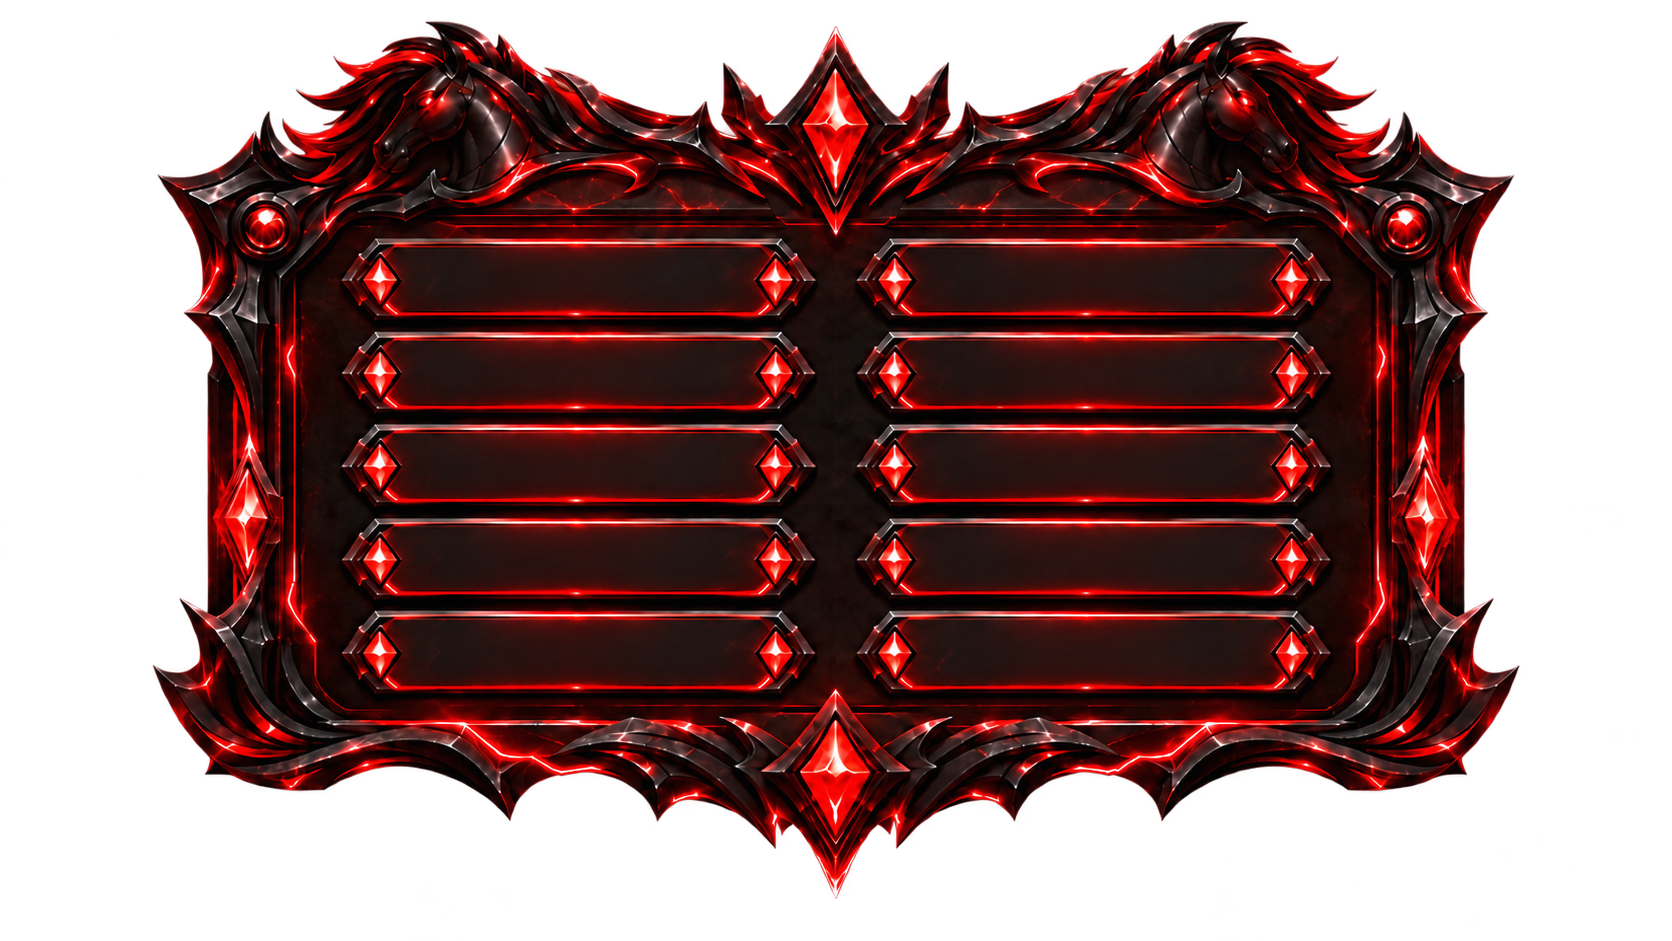
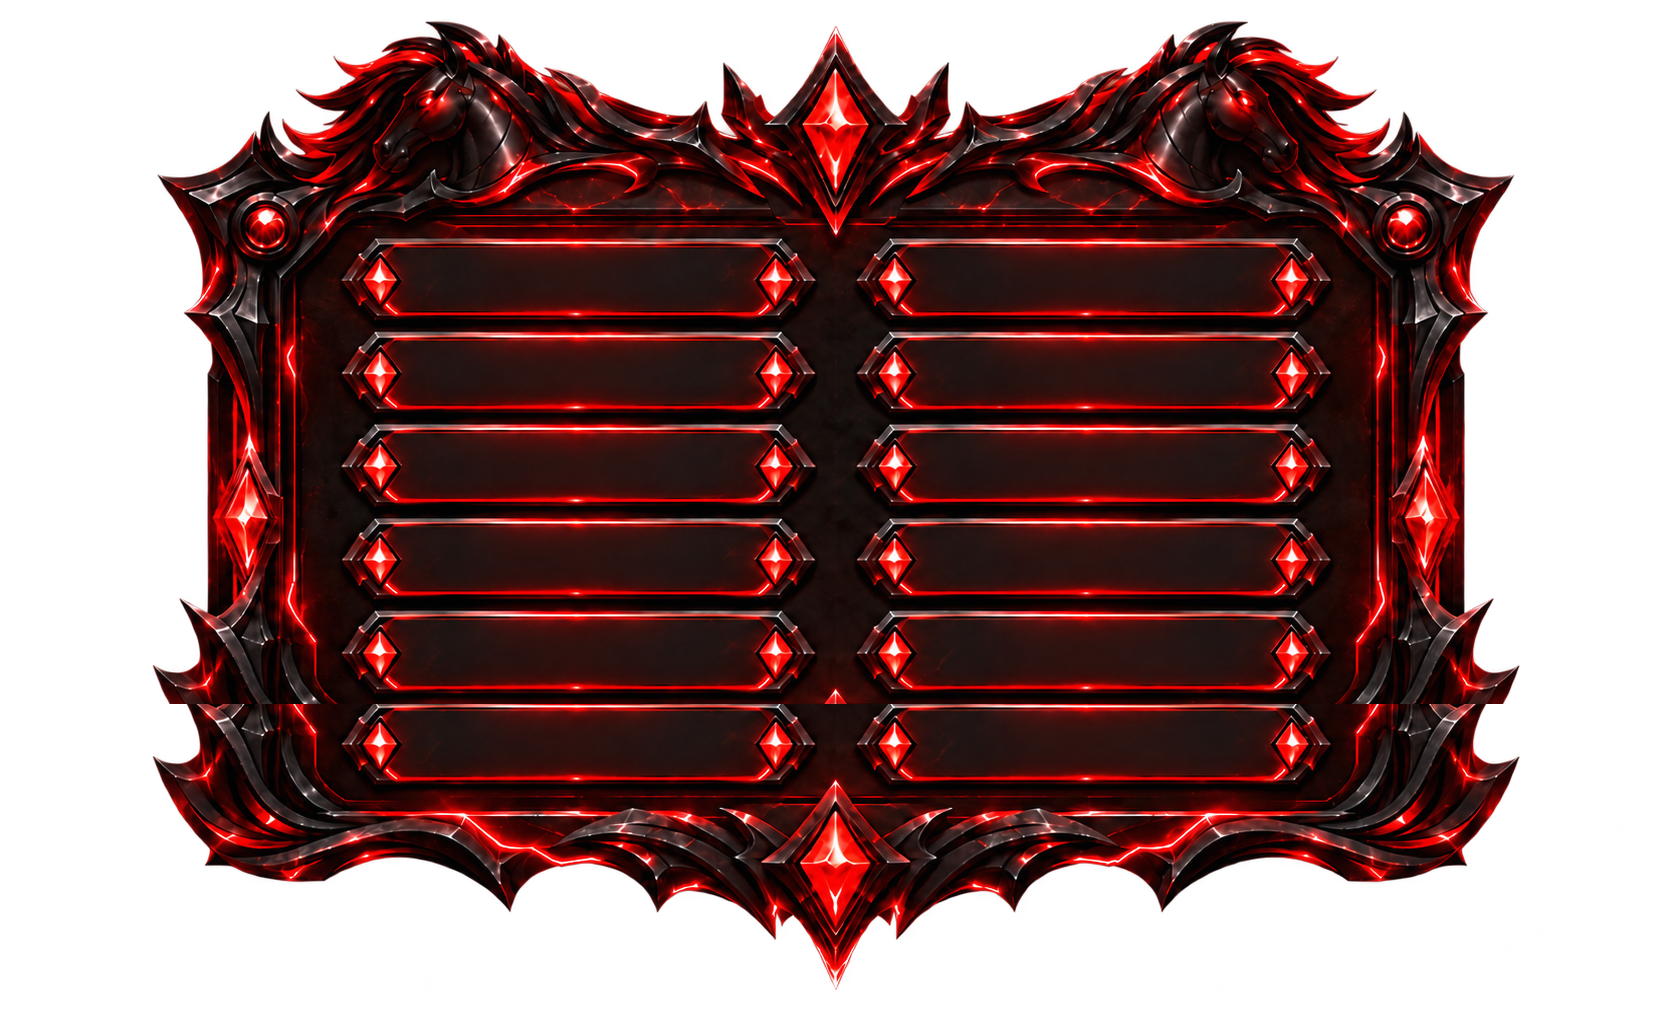
Integrate bath control into Colt panel

diff --git a/work/verify-launchpad-colt-ui.js b/work/verify-launchpad-colt-ui.js
@@ -240,18 +240,21 @@ async function run() {
     const controlsBounds = await controlsPanel.boundingBox();
     assert.match(await controlsPanel.evaluate(element => getComputedStyle(element).backgroundImage), /launchpad-colt-controls-panel\.png/);
     assert.equal(await controlsPanel.locator("button").count(), 12, "The redesigned panel lost a Colt control.");
-    assert(Math.abs((controlsBounds.width / controlsBounds.height) - (1672 / 941)) < 0.08, "The Colt controls artwork is distorted.");
+    assert(Math.abs((controlsBounds.width / controlsBounds.height) - (1672 / 1032)) < 0.08, "The Colt controls artwork is distorted.");
     assert(controlsBounds.x >= 7 && controlsBounds.y >= 7 && controlsBounds.x + controlsBounds.width <= 1433 && controlsBounds.y + controlsBounds.height <= 893, "The Colt controls panel is not contained in the viewport.");
-    const slotButtons = controlsPanel.locator('button:not([data-colt-control="minimize"]):not([data-colt-control="bath"])');
+    const slotButtons = controlsPanel.locator('button:not([data-colt-control="minimize"])');
     const firstSlotBounds = await slotButtons.first().boundingBox();
     const lastSlotBounds = await slotButtons.last().boundingBox();
     const firstSlotCenter = firstSlotBounds.y + firstSlotBounds.height / 2;
     const lastSlotCenter = lastSlotBounds.y + lastSlotBounds.height / 2;
     assert(firstSlotCenter > controlsBounds.y + controlsBounds.height * .27 && firstSlotCenter < controlsBounds.y + controlsBounds.height * .33, "The first-row words are outside their artwork slots.");
     assert(lastSlotCenter > controlsBounds.y + controlsBounds.height * .67 && lastSlotCenter < controlsBounds.y + controlsBounds.height * .73, "The last-row words are outside their artwork slots.");
-    const bathControlBounds = await controlsPanel.locator('[data-colt-control="bath"]').boundingBox();
+    const bathControl = controlsPanel.locator('[data-colt-control="bath"]');
+    const bathControlBounds = await bathControl.boundingBox();
     assert(bathControlBounds.x >= controlsBounds.x && bathControlBounds.x + bathControlBounds.width <= controlsBounds.x + controlsBounds.width, "The Give Bath control extends outside the Colt panel.");
     assert(bathControlBounds.y >= controlsBounds.y && bathControlBounds.y + bathControlBounds.height <= controlsBounds.y + controlsBounds.height, "The Give Bath control extends outside the Colt panel.");
+    assert.equal(await bathControl.evaluate(element => getComputedStyle(element).position), "static", "Give Bath must occupy a regular matching artwork slot.");
+    assert.equal(await bathControl.evaluate(element => getComputedStyle(element).borderTopWidth), "0px", "Give Bath must use the same border treatment as the other panel options.");
     assert.equal(await page.getByRole("button", { name: "Minimize control panel", exact: true }).evaluate(element => getComputedStyle(element).position), "absolute", "Panel minimize must remain available without consuming an artwork slot.");
     await page.getByRole("button", { name: "Name Your Colt", exact: true }).click();
     await page.waitForSelector(".launchpad-colt-customizer:visible");

diff --git a/styles.css b/styles.css
@@ -10795,15 +10795,15 @@ body[data-theme="night"] .colt-assistant-heading .feature-kicker {
   right: 104px;
   display: grid;
   grid-template-columns: repeat(2, minmax(0, 1fr));
-  grid-template-rows: repeat(5, minmax(0, 1fr));
+  grid-template-rows: repeat(6, minmax(0, 1fr));
   width: min(460px, calc(100vw - 20px));
-  aspect-ratio: 1672 / 941;
+  aspect-ratio: 1672 / 1032;
   box-sizing: border-box;
   gap: 4px 16px;
   padding: 67px 92px 70px 95px;
   border: 0;
   border-radius: 0;
-  background: url("assets/launchpad-colt-controls-panel.png?v=20260904") center / 100% 100% no-repeat;
+  background: url("assets/launchpad-colt-controls-panel.png?v=20260908-six-row1") center / 100% 100% no-repeat;
   filter: drop-shadow(0 16px 24px rgba(0, 0, 0, .7)) drop-shadow(0 0 10px rgba(218, 22, 70, .3));
   box-shadow: none;
 }
@@ -10855,21 +10855,6 @@ body[data-theme="night"] .colt-assistant-heading .feature-kicker {
   content: "−";
   font-size: 1rem;
   line-height: 1;
-}
-
-.launchpad-colt-controls button[data-colt-control="bath"] {
-  position: absolute;
-  bottom: 7.5%;
-  left: 50%;
-  width: 92px;
-  height: 23px;
-  padding: 0 10px;
-  border: 1px solid rgba(244, 39, 87, .88);
-  border-radius: 999px;
-  background: linear-gradient(180deg, rgba(100, 12, 37, .96), rgba(24, 7, 14, .97));
-  box-shadow: inset 0 0 9px rgba(255, 47, 91, .35), 0 0 8px rgba(240, 25, 72, .42);
-  font-size: .61rem;
-  transform: translateX(-50%);
 }
 
 .launchpad-colt-controls button:disabled {

diff --git a/index.html b/index.html
@@ -10,7 +10,7 @@
   <link rel="icon" type="image/png" sizes="16x16" href="/favicon-16x16.png?v=20260727-shield2">
   <link rel="apple-touch-icon" sizes="180x180" href="/apple-touch-icon.png?v=20260727-shield2">
   <link rel="manifest" href="/site.webmanifest?v=20260901-single-client-v1">
-  <link rel="stylesheet" href="styles.css?v=20260908-colt-bath-v28">
+  <link rel="stylesheet" href="styles.css?v=20260908-colt-bath-panel-v29">
 </head>
 <body>
   <main id="app" class="app-shell"></main>
@@ -22,7 +22,7 @@
   <script src="app.js?v=20260908-mrs-lev-death-audio-v35"></script>
   <script src="colt-assistant.js?v=20260905-lazy-artwork-v2"></script>
   <script src="colt-radio.js?v=20260906-youradio-easy-classical-v12"></script>
-  <script src="launchpad-colt.js?v=20260908-bathing-v8"></script>
+  <script src="launchpad-colt.js?v=20260908-bathing-panel-v9"></script>
 </body>
 </html>
 

diff --git a/launchpad-colt.js b/launchpad-colt.js
@@ -450,7 +450,7 @@
     const rootBounds = root.getBoundingClientRect();
     const coltBounds = characterButton.getBoundingClientRect();
     const panelWidth = Math.min(globalObject.innerWidth <= 760 ? 420 : 460, globalObject.innerWidth - 16);
-    const panelHeight = panelWidth * (941 / 1672);
+    const panelHeight = panelWidth * (1032 / 1672);
     const roomOnLeft = coltBounds.left + (coltBounds.width / 2) >= globalObject.innerWidth / 2;
     const desiredLeft = roomOnLeft
       ? coltBounds.left - panelWidth + 40
